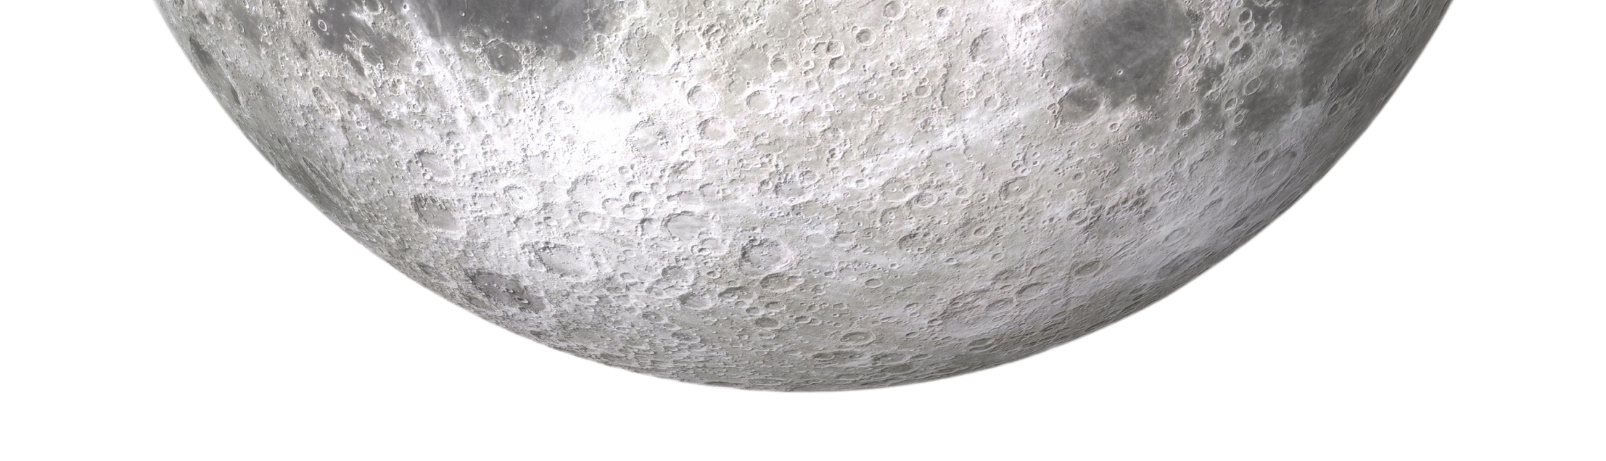
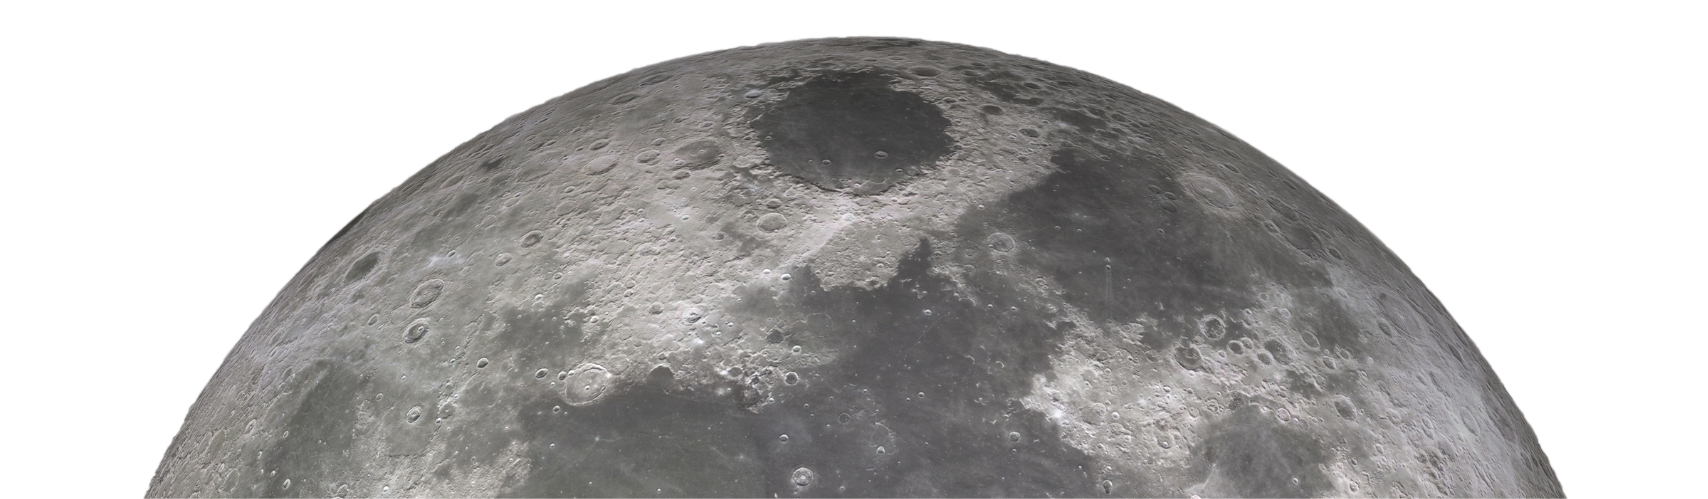
transformingSection created

diff --git a/frontend/src/components/TransformingBusinessSection.jsx b/frontend/src/components/TransformingBusinessSection.jsx
@@ -1,46 +1,155 @@
-import React from "react";
+import React, { useState, useEffect, useRef } from "react";
+import halfmoon from '../assets/halfmoon.png';
+import html from '../assets/html-5.png';
+import sql from '../assets/sql.png';
+import reactImg from '../assets/react.png';
+import mongodb from '../assets/mongodb.png';
+import aws from '../assets/aws.png';
+import nodejs from '../assets/nodejs.png';
+import figma from '../assets/figma.png';
+import java from '../assets/java.png';
+import css from '../assets/css.png';
 
 const TransformingBusinessSection = () => {
+  // Define state for active technology
+  const [activeTechnology, setActiveTechnology] = useState(null);
+
+  // Array of technologies for cycling through
+  const technologies = ['figma', 'nodejs', 'mongodb', 'sql', 'html', 'react', 'aws', 'java', 'css'];
+
+  // Ref to keep track of the index
+  const indexRef = useRef(0);
+
+  // Function to set the active technology
+  const handleTechnologyClick = (tech) => {
+    setActiveTechnology(tech);
+    indexRef.current = technologies.indexOf(tech); // Update ref to the clicked tech index
+  };
+
+  // Define content for each technology
+  const technologyContent = {
+    html: "HTML is the standard language for creating web pages. It describes the structure of a webpage and is used along with CSS and JavaScript.",
+    sql: "SQL (Structured Query Language) is a standard language for managing and manipulating databases, allowing for the querying, updating, and management of data.",
+    react: "React is a JavaScript library for building user interfaces, especially single-page applications, by using a component-based architecture.",
+    mongodb: "MongoDB is a NoSQL database designed for scalability and flexibility, allowing developers to store and query large amounts of unstructured data.",
+    aws: "Amazon Web Services (AWS) is a comprehensive cloud computing platform that offers services like computing power, storage, and databases.",
+    nodejs: "Node.js is a JavaScript runtime built on Chrome's V8 JavaScript engine that enables fast and scalable network applications.",
+    java: "Java is a high-level, class-based programming language designed to have as few implementation dependencies as possible, making it widely portable.",
+    figma: "Figma is a web-based UI/UX design tool that allows for collaborative design, prototyping, and sharing of designs in real-time.",
+    css: "CSS (Cascading Style Sheets) is used for describing the presentation of a document written in HTML or XML. It controls the layout and style of web pages."
+  };
+
+  useEffect(() => {
+    const interval = setInterval(() => {
+      setActiveTechnology(technologies[indexRef.current]); 
+      indexRef.current = (indexRef.current + 1) % technologies.length; // Cycle through the index
+    }, 2000); 
+
+    return () => clearInterval(interval); // Cleanup on unmount
+  }, [technologies]);
 
   return (
-    <div className="min-h-screen bg-gradient-to-r from-yellow-100 to-pink-200 flex flex-col items-center justify-center relative">
-      
-      <div className="w-full h-auto">
-        {/* First row */}
-        <div className="w-[95%] h-auto mx-auto flex items-center justify-between">
-          <div className="bg-white rounded-full h-20 w-20 lg:h-36 lg:w-36"></div>
-          <div className="flex flex-col">
-            <h1 className="text-3xl md:text-4xl lg:text-4xl font-bold text-center mb-4">
-              TRANSFORMING BUSINESSES THROUGH TECHNOLOGY
-            </h1>
-            <p className="text-xl md:text-2xl text-center mb-2">
-              We harness the latest tools to deliver exceptional results
-            </p>
+    <div className="w-full h-screen md:p-5 mt-10">
+      <div className="w-[97%] h-[80%] md:h-full mx-auto flex flex-col justify-between">
+        {/* heading-div */}
+        <div className="w-full md:w-[50%] h-[40%] md:h-[60%] lg:h-auto mx-auto flex flex-col gap-5 md:gap-1 justify-center items-center">
+          <p className="text-lg lg:text-4xl text-black md:text-nowrap text-center">
+            TRANSFORMING BUSINESS THROUGH TECHNOLOGY
+          </p>
+          <p className="text-sm md:text-lg lg:text-2xl md:text-nowrap text-black text-center">
+            We harness the latest tools to deliver exceptional results
+          </p>
+        </div>
+
+        {/* Circle Gradients and Image */}
+        <div className="w-full h-full relative">
+          {/* First circle */}
+          <div className="absolute left-[45%] md:left-[45%] top-[25%] md:top-[7%] w-[32%] xl:top-[4%] xl:left-[46%] h-auto flex justify-between items-center">
+            <div
+              className={`z-10 h-9 w-9 md:h-16 md:w-16 lg:h-24 lg:w-24 rounded-full bg-white border transition-all duration-300 p-1 md:p-2 flex justify-center items-center cursor-pointer ${activeTechnology === 'html' ? 'border-black scale-110' : ''}`}
+              onClick={() => handleTechnologyClick('html')}
+            >
+              <img src={html} alt="HTML" className="h-[80%] w-[80%] object-contain" />
+            </div>
           </div>
-          <div className="bg-white rounded-full h-20 w-20 lg:h-36 lg:w-36"></div>
-        </div>
-        {/* Second row */}
-        <div className="w-[75%] h-auto mx-auto flex items-center justify-between bg-b">
-          <div className="bg-white rounded-full h-20 w-20 lg:h-36 lg:w-36"></div>
-          <div className="bg-white rounded-full h-20 w-20 lg:h-36 lg:w-36"></div>
-        </div>
-        {/* Third row */}
-        <div className="w-[64%] h-auto mx-auto flex items-center justify-between">
-          <div className="bg-white rounded-full h-20 w-20 lg:h-36 lg:w-36"></div>
-          <div className="bg-white rounded-full h-20 w-20 lg:h-36 lg:w-36"></div>
-        </div>
-        {/* Fourth row */}
-        <div className="w-[47%] h-auto mx-auto flex items-center justify-between">
-          <div className="bg-white rounded-full h-20 w-20 lg:h-36 lg:w-36"></div>
-          <div className="bg-white rounded-full h-20 w-20 lg:h-36 lg:w-36"></div>
-        </div>
-        {/* Fifth row */}
-        <div className="w-[22%] h-auto mx-auto flex gap-2 relative items-center justify-between">
-          <div className="bg-white rounded-full h-20 w-20 lg:h-36 lg:w-36"></div>
-          <div className="bg-white rounded-full h-20 w-20 lg:h-36 lg:w-36"></div>
+
+          {/* Second row of circles */}
+          <div className="absolute left-[32%] xl:top-[9%] md:w-[37%] xl:w-[37%] xl:left-[31%] lg:left-[30%] top-[27%] md:top-[11%] lg:top-[10%] w-[36%] lg:w-[40%] h-auto flex justify-between items-center">
+            <div
+              className={`z-10 h-9 w-9 md:h-16 md:w-16 lg:h-24 lg:w-24 rounded-full bg-white border hover:text-gray-400 transition-all duration-300 p-1 md:p-2 flex justify-center items-center cursor-pointer ${activeTechnology === 'sql' ? 'border-black scale-110' : ''}`}
+              onClick={() => handleTechnologyClick('sql')}
+            >
+              <img src={sql} alt="SQL" className="h-[80%] w-[80%] object-contain" />
+            </div>
+            <div
+              className={`z-10 h-9 w-9 md:h-16 md:w-16 lg:h-24 lg:w-24 rounded-full bg-white border hover:text-green-700 transition-all duration-300 p-1 md:p-2 flex justify-center items-center cursor-pointer ${activeTechnology === 'react' ? 'border-black scale-110' : ''}`}
+              onClick={() => handleTechnologyClick('react')}
+            >
+              <img src={reactImg} alt="react" className="h-[80%] w-[80%] object-contain" />
+            </div>
+          </div>
+
+          {/* Third row of circles */}
+          <div className="absolute left-[19%] top-[33%] md:top-[22%] lg:left-[17%] w-[62%] lg:w-[66%] xl:w-[60%] xl:left-[20%] xl:top-[21%] h-auto flex justify-between items-center">
+            <div
+              className={`z-10 h-9 w-9 md:h-16 md:w-16 lg:h-24 lg:w-24 rounded-full bg-white border p-1 md:p-2 flex justify-center items-center cursor-pointer transition-all duration-300 ${activeTechnology === 'mongodb' ? 'border-black scale-110' : ''}`}
+              onClick={() => handleTechnologyClick('mongodb')}
+            >
+              <img src={mongodb} alt="mongodb" className="h-[80%] w-[80%] object-contain" />
+            </div>
+            <div
+              className={`z-10 h-9 w-9 md:h-16 md:w-16 lg:h-24 lg:w-24 rounded-full bg-white border p-1 md:p-2 flex justify-center items-center transition-all duration-300 cursor-pointer ${activeTechnology === 'aws' ? 'border-black scale-110' : ''}`}
+              onClick={() => handleTechnologyClick('aws')}
+            >
+              <img src={aws} alt="aws" className="h-[80%] w-[80%] object-contain" />
+            </div>
+          </div>
+
+          {/* Fourth row of circles */}
+          <div className="absolute left-[7%] lg:left-[5%] top-[42%] md:top-[40%] w-[86%] lg:w-[90%] xl:w-[82%] xl:left-[9%] xl:top[45%] h-auto flex justify-between items-center">
+            <div
+              className={`z-10 h-9 w-9 md:h-16 md:w-16 lg:h-24 lg:w-24 rounded-full bg-white border p-1 md:p-2 flex justify-center items-center transition-all duration-300 cursor-pointer ${activeTechnology === 'nodejs' ? 'border-black scale-110' : ''}`}
+              onClick={() => handleTechnologyClick('nodejs')}
+            >
+              <img src={nodejs} alt="nodejs" className="h-[80%] w-[80%] object-contain" />
+            </div>
+            <div
+              className={`z-10 h-9 w-9 md:h-16 md:w-16 lg:h-24 lg:w-24 rounded-full bg-white border p-1 md:p-2 flex justify-center items-center transition-all duration-300 cursor-pointer ${activeTechnology === 'java' ? 'border-black scale-110' : ''}`}
+              onClick={() => handleTechnologyClick('java')}
+            >
+              <img src={java} alt="java" className="h-[80%] w-[80%] object-contain" />
+            </div>
+          </div>
+
+          {/* Fifth row of circles */}
+          <div className="absolute left-[0%] top-[54%] md:top-[57%] lg:top-[60%] xl:top-[61%] w-full xl:w-[96%] xl:left-[2%] h-auto flex justify-between items-center">
+            <div
+              className={`z-10 h-9 w-9 md:h-16 md:w-16 lg:h-24 lg:w-24 rounded-full bg-white border p-1 md:p-2 flex justify-center items-center transition-all duration-300 cursor-pointer ${activeTechnology === 'figma' ? 'border-black scale-110' : ''}`}
+              onClick={() => handleTechnologyClick('figma')}
+            >
+              <img src={figma} alt="figma" className="h-[80%] w-[80%] object-contain" />
+            </div>
+            <div
+              className={`z-10 h-9 w-9 md:h-16 md:w-16 lg:h-24 lg:w-24 rounded-full bg-white border p-1 md:p-2 flex justify-center items-center transition-all duration-300 cursor-pointer ${activeTechnology === 'css' ? 'border-black scale-110' : ''}`}
+              onClick={() => handleTechnologyClick('css')}
+            >
+              <img src={css} alt="css" className="h-[80%] w-[80%] object-contain" />
+            </div>
+          </div>
+
+          {/* Image */}
+          <img
+            src={halfmoon}
+            alt="Picture of tagline"
+            className="w-full h-full object-contain grayscale-100"
+          />
+
+          {/* Conditionally render content based on active technology */}
+          <p className="absolute text-[8px] md:text-[14px] xl:text-xl w-[50%] left-[25%] top-[47%] text-white">
+            {activeTechnology ? technologyContent[activeTechnology] : "Click on a technology to learn more."}
+          </p>
         </div>
       </div>
-
     </div>
   );
 };

diff --git a/frontend/src/pages/Hero2.jsx b/frontend/src/pages/Hero2.jsx
@@ -16,7 +16,7 @@ const Hero2 = () => {
       <NewLandingPage/>
       <HawaMahal/>
       <CoreValues/>
-         
+
       <TransformingBusinessSection/>
       <NewGetInTouch/>
       
